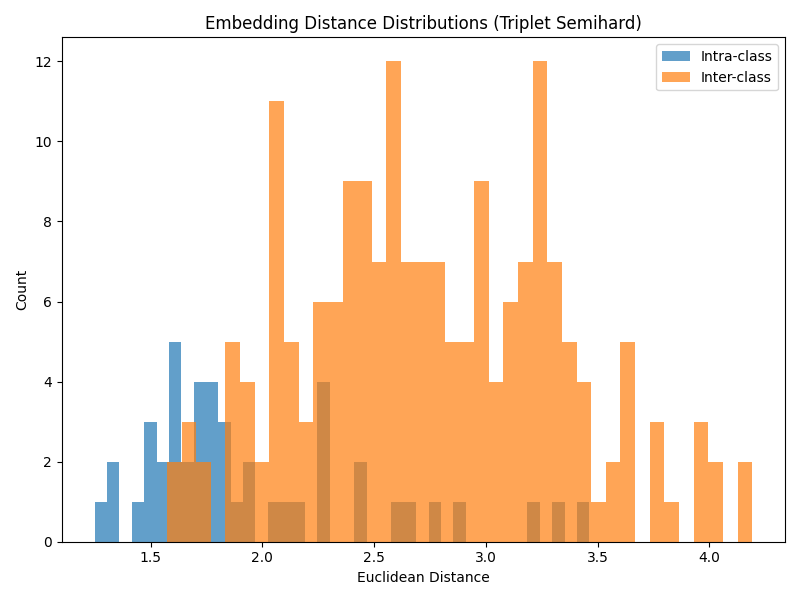
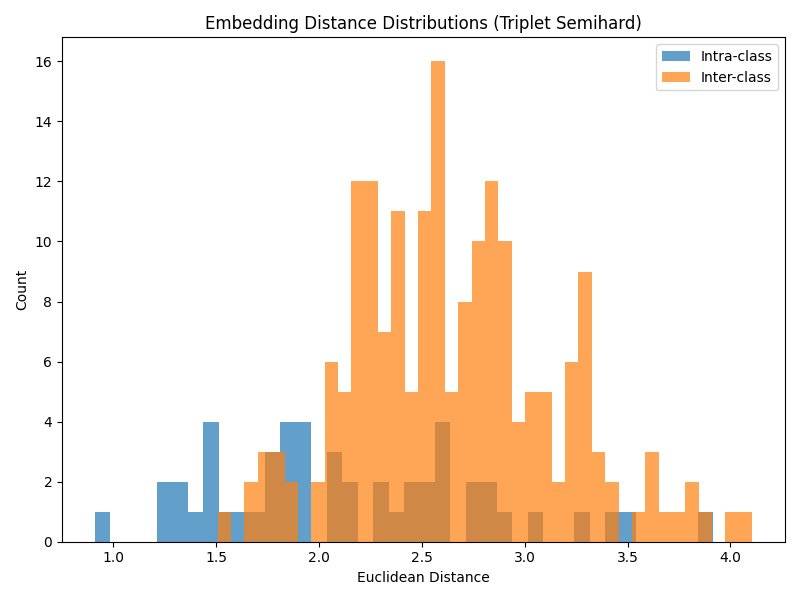
aa

diff --git a/Assignment2/analysis/compute_stats.py b/Assignment2/analysis/compute_stats.py
@@ -19,36 +19,64 @@ class EmbedWrapper(nn.Module):
         return self.siamese_model.embed(x)
 
 
-def count_model(model, name):
+# def count_model(model, name):
+#     dummy = torch.randn(1, 3, IMG_SIZE, IMG_SIZE).to(DEVICE)
+
+#     # wrap siamese encoder properly for thop
+#     if hasattr(model, "embed"):
+#         wrapped = EmbedWrapper(model).to(DEVICE)
+#         macs, params = profile(
+#             wrapped,
+#             inputs=(dummy,),
+#             verbose=False
+#         )
+#     else:
+#         macs, params = profile(
+#             model,
+#             inputs=(dummy,),
+#             verbose=False
+#         )
+
+#     print(f"{name}:")
+#     print(f"  Parameters: {params / 1e6:.2f} M")
+#     print(f"  MACs: {macs / 1e9:.2f} G")
+#     print(f"  Approx FLOPs: {2 * macs / 1e9:.2f} G\n")
+
+
+def count_model(model, name, file):
     dummy = torch.randn(1, 3, IMG_SIZE, IMG_SIZE).to(DEVICE)
 
-    # wrap siamese encoder properly for thop
     if hasattr(model, "embed"):
         wrapped = EmbedWrapper(model).to(DEVICE)
-        macs, params = profile(
-            wrapped,
-            inputs=(dummy,),
-            verbose=False
-        )
+        macs, params = profile(wrapped, inputs=(dummy,), verbose=False)
     else:
-        macs, params = profile(
-            model,
-            inputs=(dummy,),
-            verbose=False
-        )
+        macs, params = profile(model, inputs=(dummy,), verbose=False)
 
-    print(f"{name}:")
-    print(f"  Parameters: {params / 1e6:.2f} M")
-    print(f"  MACs: {macs / 1e9:.2f} G")
-    print(f"  Approx FLOPs: {2 * macs / 1e9:.2f} G\n")
+    text = (
+        f"{name}:\n"
+        f"  Parameters: {params / 1e6:.2f} M\n"
+        f"  MACs: {macs / 1e9:.2f} G\n"
+        f"  Approx FLOPs: {2 * macs / 1e9:.2f} G\n\n"
+    )
 
+    print(text)
+    file.write(text)
+
+
+# def main():
+#     koch = SiameseKoch(embed_dim=EMBED_DIM).to(DEVICE)
+#     resnet = ResNet18Backbone(embed_dim=EMBED_DIM).to(DEVICE)
+
+#     count_model(koch, "Koch CNN (reduced)")
+#     count_model(resnet, "ResNet-18 (scratch)")
 
 def main():
-    koch = SiameseKoch(embed_dim=EMBED_DIM).to(DEVICE)
-    resnet = ResNet18Backbone(embed_dim=EMBED_DIM).to(DEVICE)
+    with open("analysis/results/model_complexity.txt", "w") as f:
+        koch = SiameseKoch(embed_dim=EMBED_DIM).to(DEVICE)
+        resnet = ResNet18Backbone(embed_dim=EMBED_DIM).to(DEVICE)
 
-    count_model(koch, "Koch CNN (reduced)")
-    count_model(resnet, "ResNet-18 (scratch)")
+        count_model(koch, "Koch CNN (reduced)", f)
+        count_model(resnet, "ResNet-18 (scratch)", f)
 
 
 if __name__ == "__main__":

diff --git a/Assignment2/analysis/build_summary_table.py b/Assignment2/analysis/build_summary_table.py
@@ -1,0 +1,47 @@
+import pandas as pd
+import glob
+import numpy as np
+from sklearn.metrics import roc_auc_score
+
+files = glob.glob("results/*test_scores.csv")
+
+rows = []
+
+for f in files:
+    df = pd.read_csv(f)
+
+    if "score" in df.columns:
+        scores = df["score"]
+    elif "score(-dist)" in df.columns:
+        scores = df["score(-dist)"]
+    elif "distance" in df.columns:
+        scores = -df["distance"]
+    else:
+        raise ValueError(f"Unknown format in {f}")
+
+    labels = df["label"]
+
+    # ✅ accuracy עם threshold פשוט
+    threshold = np.median(scores)
+    preds = (scores > threshold).astype(int)
+    acc = (preds == labels).mean()
+
+    # ✅ AUC
+    auc = roc_auc_score(labels, scores)
+
+    rows.append({
+        "file": f.split("/")[-1],
+        "accuracy": acc,
+        "auc": auc
+    })
+
+summary = pd.DataFrame(rows)
+
+if len(summary) == 0:
+    print("❌ No files found!")
+else:
+    summary.sort_values(by="accuracy", ascending=False, inplace=True)
+
+    summary.to_csv("analysis/results/summary_table.csv", index=False)
+
+    print(summary)

diff --git a/Assignment2/analysis/embedding_distances.py b/Assignment2/analysis/embedding_distances.py
@@ -88,6 +88,13 @@ def main():
     plt.savefig("analysis/results/embedding_distance_hist.png")
     plt.close()
 
+    with open("analysis/results/embedding_distance_stats.txt", "w") as f:
+        f.write(f"Intra mean: {np.mean(intra_distances):.4f}\n")
+        f.write(f"Intra std: {np.std(intra_distances):.4f}\n")
+        f.write(f"Inter mean: {np.mean(inter_distances):.4f}\n")
+        f.write(f"Inter std: {np.std(inter_distances):.4f}\n")
+
+
 
 if __name__ == "__main__":
     main()

diff --git a/Assignment2/analysis/tsne_embeddings.py b/Assignment2/analysis/tsne_embeddings.py
@@ -16,6 +16,10 @@ CHECKPOINT = "checkpoints/koch_triplet_semihard_m0.2_best.pt"
 N_IDENTITIES = 20
 MAX_IMAGES_PER_ID = 10
 
+random.seed(0)
+np.random.seed(0)
+torch.manual_seed(0)
+
 
 def load_image(path):
     img = Image.open(path).convert("RGB")
